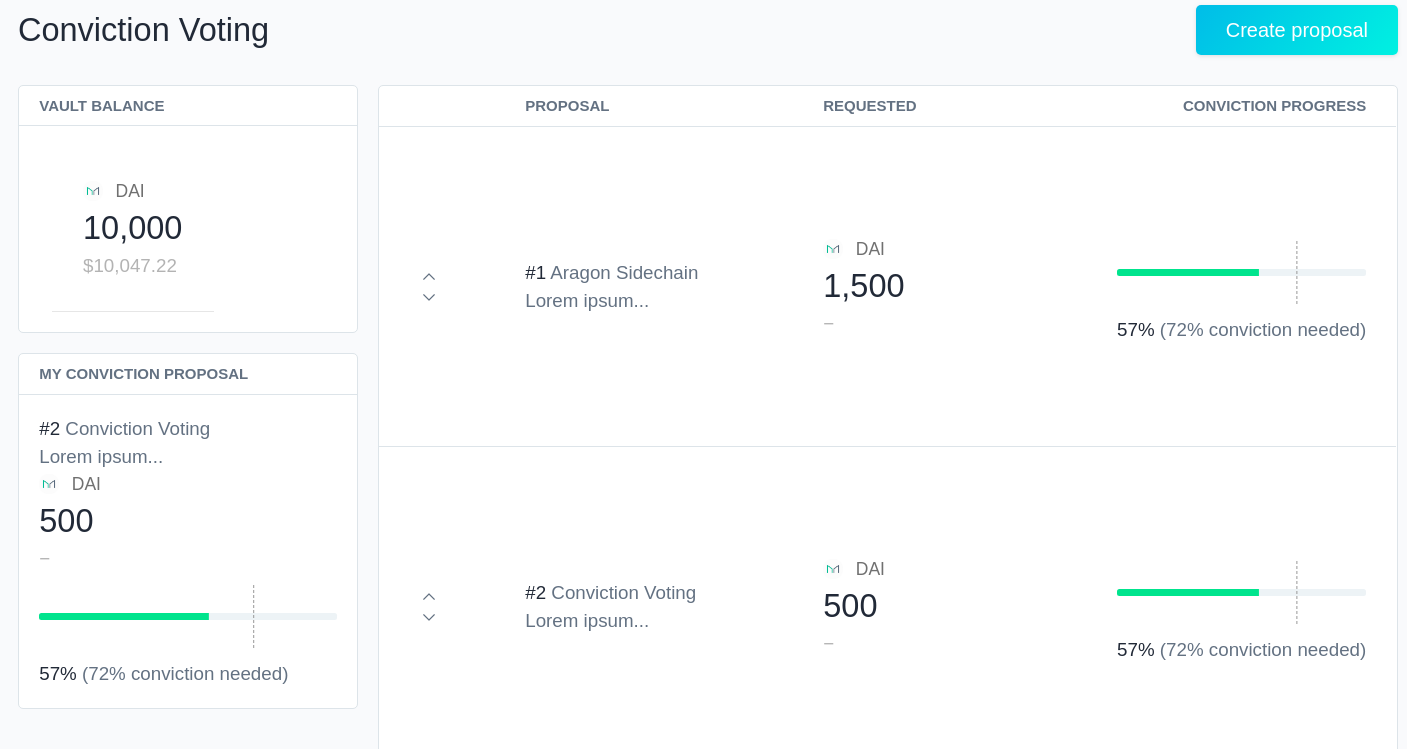
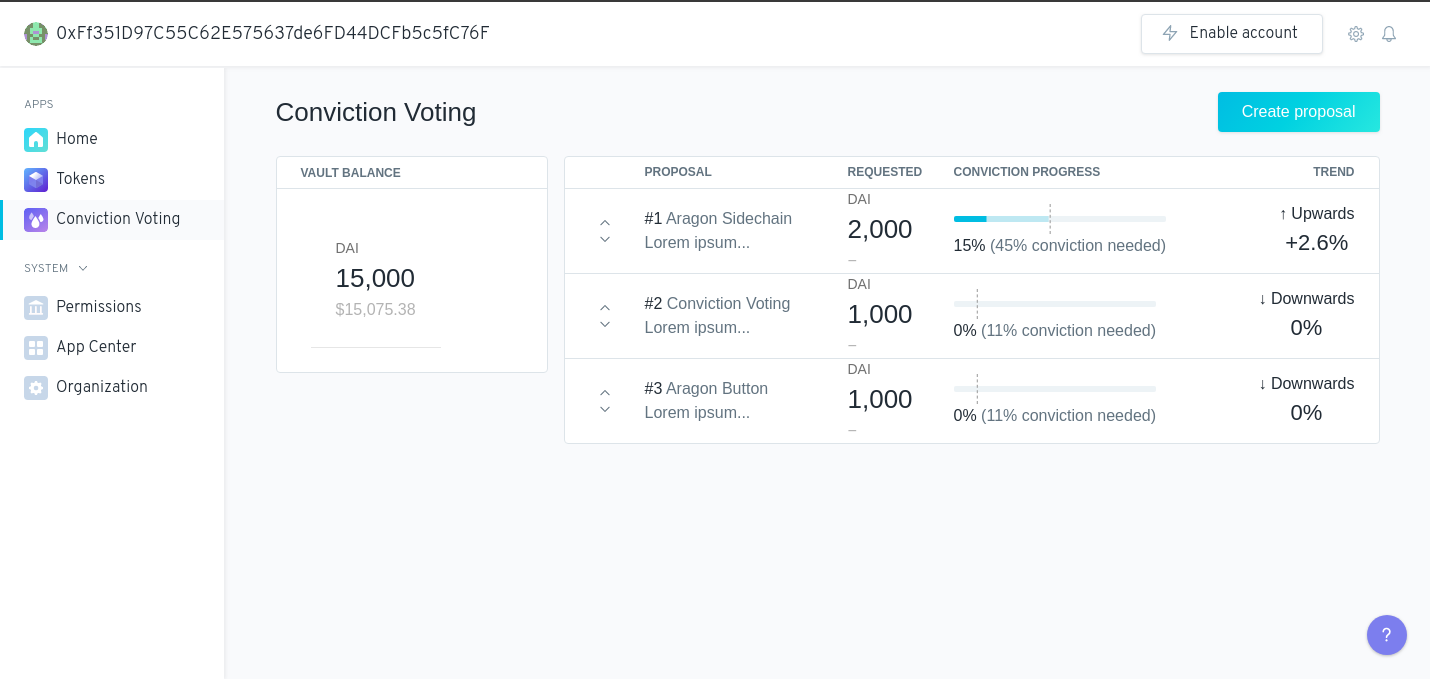
Update README, manifest.json and screenshot

diff --git a/app/src/script.js b/app/src/script.js
@@ -211,7 +211,9 @@ function initState(stakeToken, vault, requestTokenAddress) {
       vault
     )
 
-    app.identify(`${stakeToken.tokenSymbol}-${requestTokenSettings.symbol}`)
+    app.identify(
+      `${stakeTokenSettings.tokenSymbol}-${requestTokenSettings.symbol}`
+    )
 
     const inititalState = {
       proposals: [],

diff --git a/README.md b/README.md
@@ -1,9 +1,43 @@
-# Aragon Conviction Voting Application
+# Conviction Voting
+
+1Hive & P2P Models' Conviction Voting app is used to allocate funds on proposals based on the conviction an entire organization has on them. Conviction can be signaled by staking organization tokens on proposals, and it is not fully activated until a certain period of time has passed.
+
+#### 🐲 Project Stage: development
+
+The Conviction Voting app is still in development. If you are interested in contributing please see our [open issues](https://github.com/1hive/conviction-voting-app).
+
+#### 🚨 Security Review Status: pre-audit
+
+The code in this repository has not been audited.
+
+## How to run Conviction Voting app locally
+
+To use this Aragon application, set it up using a token and a vault using:
+
+```sh
+npm install
+npx aragon devchain
+npm run start:ipfs:template
+```
+
+If everything is working correctly, your new DAO will be deployed and your browser will open http://localhost:3000/#/YOUR-DAO-ADDRESS. It should look something like this:
+
+![Deployed DAO with conviction voting app](https://raw.githubusercontent.com/1Hive/conviction-voting-app/master/app/public/meta/screenshot-1.png)
+
+You can see how conviction increases and decreases over time by killing the `aragon devchain` process and executing:
+
+```sh
+npx aragon devchain -b 15 # A new block is going to be mined every 15s
+```
+
+And refreshing the application in the browser (F5).
+
+## Background
+
 The process of allocating funds in DAOs that are being used today feels very clunky, typically requiring a series of yes/no votes evaluated independently. These organizations also suffer from a number of challenges like 51% attacks, low participation, and overall inability to effectively prioritize and decide when there are many potential options all competing for consideration at once.
 
 [Conviction voting](https://medium.com/giveth/conviction-voting-a-novel-continuous-decision-making-alternative-to-governance-aa746cfb9475) as proposed by Commons Stack and Block Science  provides an interesting solution, that feels more organic and DAO-like than other methods we have seen proposed.
 
-## What it does
 Our implementation of Conviction Voting as an Aragon application is intended to be used to collectively allocate funds from a shared treasury. It does not currently support voting on other types of proposals.
 
 Proposals can be submitted for consideration at any time and do not have an explicit expiration.
@@ -14,20 +48,9 @@ Proposals can be executed only if there is enough accumulated conviction. The th
 
 The time based accumulation forces voters to prioritize where they place their conviction and may encourage members to more effectively converge on a mutually acceptable compromise to most effectively leverage their influence on the DAOs fund allocations.
 
-Unfortunately, we were not able to complete the application during the hackathon, we were able to get the basic contract into a mostly complete state as an Aragon App. We are confident the approach will work at this point, but some cleanup still needs to be done, and the threshold function still needs to be implemented. On the front-end we were able to come up with a [design](https://www.figma.com/file/MH2ntFCnKC1O91HS8lWmDb/Conviction-Voting?node-id=1%3A2280) and start to implement using mock data.
-
-## Usage
-
-To use this Aragon application, set it up using a token and a vault using:
-
-```sh
-npm install
-npm run start:ipfs:template
-```
-
 ## Structure
 
-This boilerplate has the following structure:
+This app has the following structure:
 
 ```md
 root
@@ -49,7 +72,7 @@ root
   - **src**: Source files.
   - [**package.json**](https://docs.npmjs.com/creating-a-package-json-file): Frontend npm configuration file.
 - **contracts**: Smart Constracts folder.
-  - `ConvictionApp.sol`: Aragon app contract.
+  - `ConvictionVotingApp.sol`: Aragon app contract.
   - `Template.sol`: [Aragon Template](https://hack.aragon.org/docs/templates-intro) to deploy a fully functional DAO.
 - [**migrations**](https://truffleframework.com/docs/truffle/getting-started/running-migrations): Migrations folder.
 - **test**: Tests folder.
@@ -58,10 +81,10 @@ root
 - [**truffle.js**](https://truffleframework.com/docs/truffle/reference/configuration): Truffle configuration file.
 - [**package.json**](https://docs.npmjs.com/creating-a-package-json-file): Main npm configuration file.
 
-## Contributors
+## Contributing
 
-- Luke - 1Hive
-- Pati - Aragon One
-- Sem - P2P Models
-- Yalda - Autark
-- Deam - Aragon Black
+We welcome community contributions!
+
+Please check out our [open Issues](https://github.com/1Hive/conviction-voting-app/issues) to get started.
+
+If you discover something that could potentially impact security, please notify us immediately. The quickest way to reach us is via the #conviction-voting channel in our [team Keybase chat](https://1hive.org/contribute/keybase). Just say hi and that you discovered a potential security vulnerability and we'll DM you to discuss details.

diff --git a/app/public/meta/details.md b/app/public/meta/details.md
@@ -1,6 +1,13 @@
-An application for Aragon.
+The Conviction Voting app is used to allocate funds on proposals based on the
+conviction an entire organization has on them.
 
-**Features**
-- Feature \#1.
-- Feature \#2.
-- Feature \#3.
+Conviction can be signaled by staking organization tokens on proposals, and it
+is not fully activated until a certain period of time has passed.
+
+## Features
+- Apply for funding from an organization's treasury.
+- Browse a list of proposals and see the conviction they have earned over the
+time and the prediction on its accumulation or dissipation.
+- Stake your tokens on one proposal to make the conviction on it grow. If the
+conviction surpasses a certain threshold, the proposal will be able to be
+executed.
